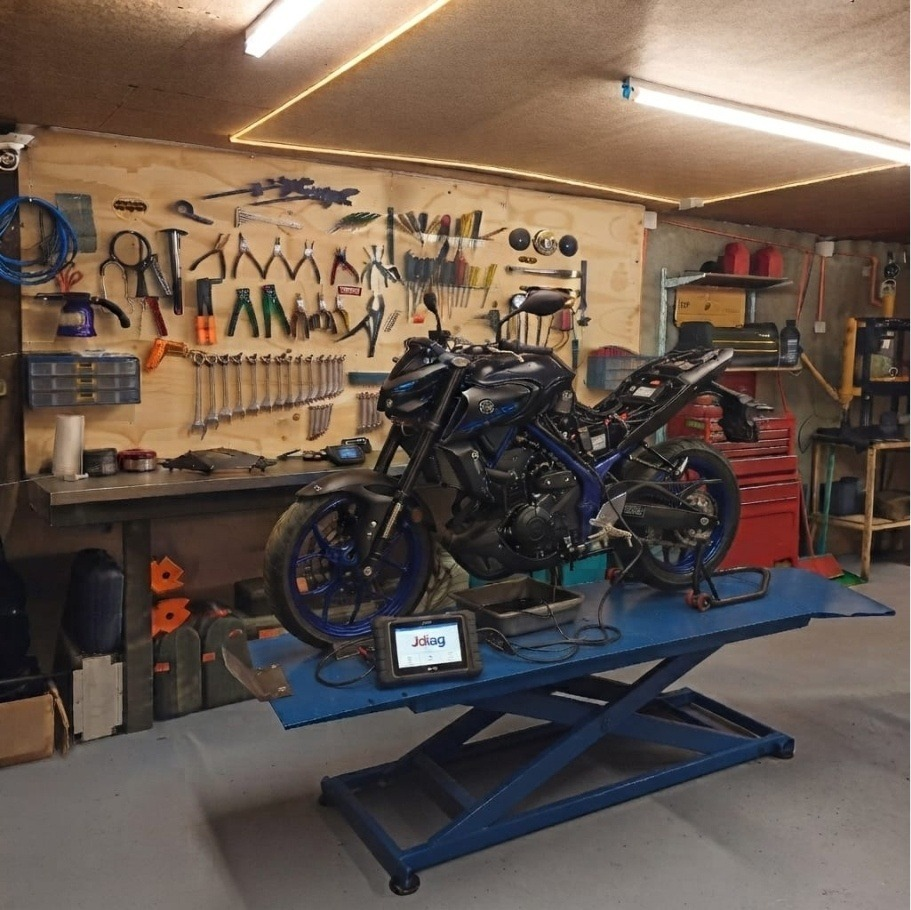
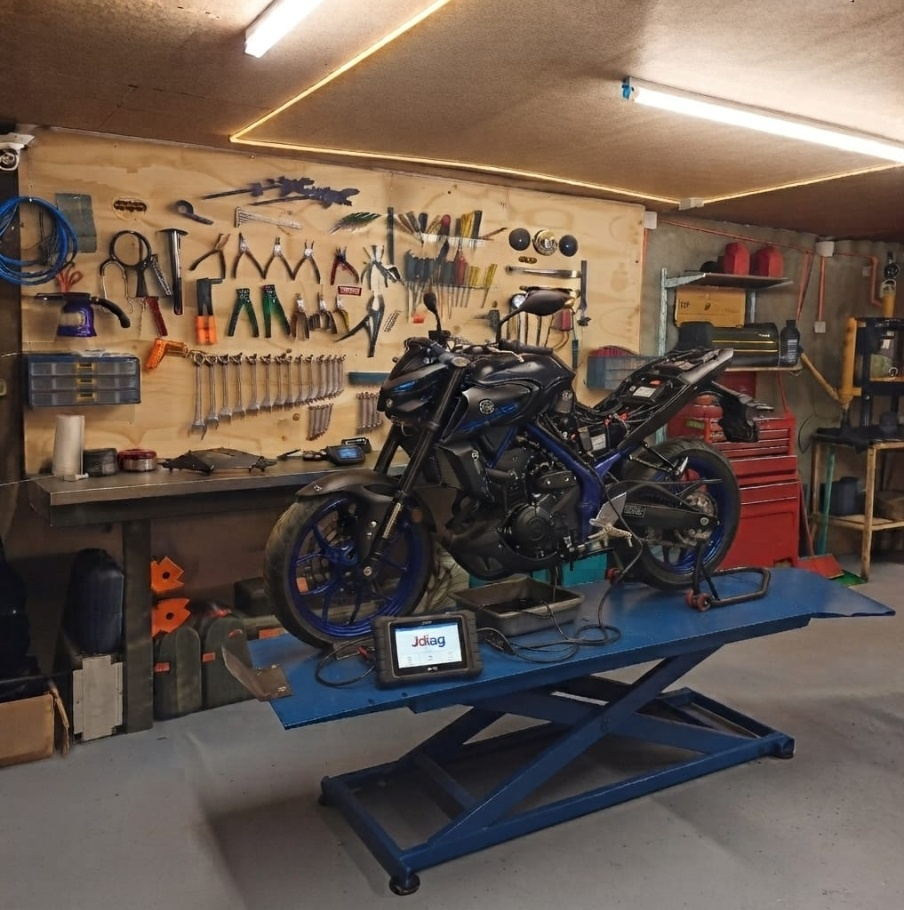
feat: add hero section layout and styling with workshop asset

diff --git a/css/sections/hero.css b/css/sections/hero.css
@@ -123,41 +123,46 @@
   position: relative;
   z-index: 1;
   display: flex;
+  justify-content: flex-end;
   align-items: center;
-  height: 100%;
-  margin-left: -110px;
-  width: calc(100% + 110px);
+  width: 100%;
 }
 
 .hero-image-frame {
   position: relative;
   border-radius: 28px;
   overflow: hidden;
-  border: 1px solid rgba(255, 255, 255, 0.08);
-  box-shadow: 0 16px 40px rgba(0, 0, 0, 0.5);
-  background: #080c14;
+  border: none;
+  outline: none;
+  box-shadow: 0 12px 36px rgba(0, 0, 0, 0.5);
+  background: transparent;
   width: 100%;
-  height: 540px;
-  max-height: 540px;
+  max-width: 510px;
+  aspect-ratio: 1 / 1;
   display: flex;
+  margin-left: auto;
 }
 
 .hero-image-frame::before {
   content: '';
   position: absolute;
   inset: 0;
-  background: linear-gradient(90deg, #080c14 0%, rgba(8, 12, 20, 0.85) 15%, rgba(8, 12, 20, 0.35) 38%, transparent 65%);
+  background: linear-gradient(90deg, #080c14 0%, rgba(8, 12, 20, 0.75) 12%, rgba(8, 12, 20, 0.2) 32%, transparent 55%);
   z-index: 2;
   pointer-events: none;
+  border-radius: 28px;
 }
 
 .hero-image-frame img {
   width: 100%;
   height: 100%;
+  aspect-ratio: 1 / 1;
   object-fit: cover;
-  object-position: center 30%;
+  object-position: center center;
   display: block;
   border-radius: 28px;
+  border: none;
+  outline: none;
   transition: transform var(--transition-slow);
 }
 
